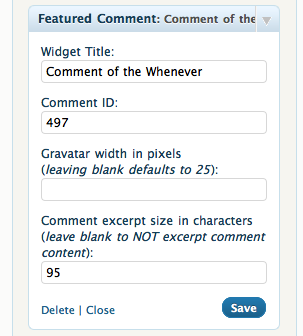
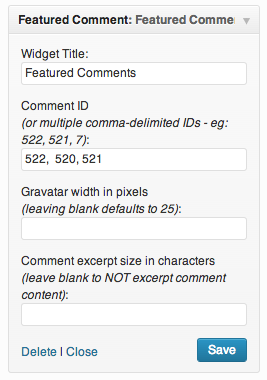
v1.6 before language localization - adds ability to add multiple comma-delimited IDs

diff --git a/featured-comment-widget.php b/featured-comment-widget.php
@@ -2,8 +2,8 @@
 /*
 Plugin Name: Featured Comment Widget
 Plugin URI: http://pancaketheorem.com/featured-comment-widget
-Description: A widget that allows you to showcase any comment that has been published on your site. All you need to do is enter the comment's ID in the widget form.
-Version: 1.5
+Description: A widget that allows you to showcase any comment(s) that has been published on your site. All you need to do is enter the comment's ID (or multiple comma-delimited IDs) in the widget form.
+Version: 1.6
 Author: Jenn Schiffer
 Author URI: http://jennschiffer.com
 
@@ -33,20 +33,23 @@ add_action('init', 'featuredCommentWidget_init', 1);
 
 function featuredCommentCSS() {
 	echo '<style type="text/css">
-			.featuredComment-comment { margin: 3px auto 5px;}
+			.featuredComment-comment { margin: 20px auto; }
+			.featuredComment-comment-content { margin: 3px auto 5px;}
 			.featuredComment-cite { display: block; text-align: left; line-height: 1em;}
 			.featuredComment-cite:after { content: "."; display: block; height: 0; clear: both; visibility: hidden; }
 				.featuredComment-gravatar {float: right; padding: 0px 5px;}
 				.featuredComment-author {float: right;}
+			.featuredComment-pager { }
+			.featuredComment-next { padding: 5px; }
+			.featuredComment-prev { padding: 5px; }
 		  </style>';
 }
-
 add_action('wp_head', 'featuredCommentCSS');
 
 class featuredCommentWidget extends WP_Widget {
 
 	function featuredCommentWidget() {
-		$widget_ops = array('classname' => 'featured_comment_widget', 'description' => __('Enter a comment\'s ID to feature it on your sidebar.','featured-comment-widget'));
+		$widget_ops = array('classname' => 'featured_comment_widget', 'description' => __('Enter a comment\'s ID (or multiple comma-delimited IDs) to feature it on your sidebar.','featured-comment-widget'));
 		$this->WP_Widget('featuredComment', __('Featured Comment'), $widget_ops);
 	}
 
@@ -59,22 +62,35 @@ class featuredCommentWidget extends WP_Widget {
 		
 		echo $before_widget;
 		
-		if ( !empty( $title ) ) { echo $before_title . $title . $after_title; }
-		else { echo $before_title . '' . $after_title; } 
+		// title of widget
+		if ( !empty( $title ) ) { 
+			echo $before_title . $title . $after_title; 
+		}
+		else { 
+			echo $before_title . '' . $after_title; 
+		} 
+		
+		// create array of all comment IDs split by commas
+		$commentIDArray = explode(",",$commentID);
  
-				$featuredComment = get_comment($commentID);
-				
+		// for each item in comment array, display featured comment
+		foreach ( $commentIDArray as $singleCommentID ) {
+		
+			$featuredComment = get_comment(trim($singleCommentID));
+			
+			if ($featuredComment) {
+	
 				if ($featuredComment->comment_author) {
 					$featuredCommentName = $featuredComment->comment_author;
 				}
 				else {
-					$featuredCommentName = "Anonymous";
+					$featuredCommentName = _e('Anonymous','featured-comment-widget');
 				}
 				
 				$featuredCommentEmail = $featuredComment->comment_author_email;
 				$featuredCommentContent = $featuredComment->comment_content;
 				$featuredCommentPostID = $featuredComment->comment_post_ID;
-				$featuredCommentURL = get_permalink($featuredCommentPostID).'#comment-'.$commentID;
+				$featuredCommentURL = get_permalink($featuredCommentPostID).'#comment-'.$singleCommentID;
 				$featuredCommentByline = __('Posted by') . '<br />' . $featuredCommentName;
 				
 				if ( function_exists('mb_strlen') && function_exists('mb_substr') ) {
@@ -86,16 +102,21 @@ class featuredCommentWidget extends WP_Widget {
 					}
 					
 				}
+				
+				echo '<div class="featuredComment-comment">';
+					echo '<div class="featuredComment-comment-content">'. $featuredCommentContent . '</div>';
+		
+					echo '<div class="featuredComment-cite">';
+						echo '<span class="featuredComment-author"><a href="' . $featuredCommentURL . '">' . $featuredCommentByline . '</a></span>';
+						echo '<span class="featuredComment-gravatar"><a href="' . $featuredCommentURL . '">' . get_avatar($featuredCommentEmail, $gravatarSize) . '</a></span>';
+					echo '</div>';
+					
+				echo '</div>'; // end comment block
 			
-				echo '<div class="featuredComment-comment">'. $featuredCommentContent . '</div>';
-			?>
-			
-				<div class="featuredComment-cite">
-					<span class="featuredComment-author"><a href="<?php echo $featuredCommentURL; ?>"><?php echo $featuredCommentByline; ?></a></span>
-					<span class="featuredComment-gravatar"><a href="<?php echo $featuredCommentURL; ?>"><?php echo get_avatar($featuredCommentEmail, $gravatarSize); ?></a></span>
-				</div>
-			
-	<?php
+			}// end if comment exists
+	
+		}// end for each item in comment array
+	
 		echo $after_widget;
 	}
 
@@ -115,16 +136,16 @@ class featuredCommentWidget extends WP_Widget {
 		$gravatarSize = strip_tags($instance['gravatarSize']);
 		$excerptSize = strip_tags($instance['excerptSize']);
 	?>
-		<p><lable for="<?php echo $this->get_field_id('title'); ?>"><?php _e('Widget Title','featured-comment-widget'); ?>:</label>
+		<p><label for="<?php echo $this->get_field_id('title'); ?>"><?php _e('Widget Title','featured-comment-widget'); ?>:</label>
 		<input class="widefat" id="<?php echo $this->get_field_id('title'); ?>" name="<?php echo $this->get_field_name('title'); ?>" type="text" value="<?php echo esc_attr($title); ?>" /></p>
-		<p><label for="<?php echo $this->get_field_id('commentID'); ?>"><?php _e('Comment ID','featured-comment-widget'); ?>:</label>
+		<p><label for="<?php echo $this->get_field_id('commentID'); ?>"><?php _e('Comment ID','featured-comment-widget') ?><br /><em>(<?php _e('or multiple comma-delimited IDs - eg: 522, 521, 7','featured-comment-widget'); ?>)</em>:</label>
 		<input class="widefat" id="<?php echo $this->get_field_id('commentID'); ?>" name="<?php echo $this->get_field_name('commentID'); ?>" type="text" value="<?php echo esc_attr($commentID); ?>" /></p>
-		<p><label for="<?php echo $this->get_field_id('gravatarSize'); ?>"><?php _e('Gravatar width in pixels','featured-comment-widget'); ?><br />(<em><?php _e('leaving blank defaults to 25','featured-comment-widget'); ?></em>):</label>
+		<p><label for="<?php echo $this->get_field_id('gravatarSize'); ?>"><?php _e('Gravatar width in pixels','featured-comment-widget'); ?><br /><em>(<?php _e('leaving blank defaults to 25','featured-comment-widget'); ?>)</em>:</label>
 		<input class="widefat" id="<?php echo $this->get_field_id('gravatarSize'); ?>" name="<?php echo $this->get_field_name('gravatarSize'); ?>" type="text" value="<?php echo esc_attr($gravatarSize); ?>" /></p>
 		
 		<?php if ( function_exists('mb_strlen') && function_exists('mb_substr') ) { ?>
 				
-			<p><label for="<?php echo $this->get_field_id('excerptSize'); ?>"><?php _e('Comment excerpt size in characters','featured-comment-widget'); ?><br />(<em><?php _e('leave blank to NOT excerpt comment content','featured-comment-widget'); ?></em>)</label>
+			<p><label for="<?php echo $this->get_field_id('excerptSize'); ?>"><?php _e('Comment excerpt size in characters','featured-comment-widget'); ?><br /><em>(<?php _e('leave blank to NOT excerpt comment content','featured-comment-widget'); ?>)</em>:</label>
 			<input class="widefat" id="<?php echo $this->get_field_id('excerptSize'); ?>" name="<?php echo $this->get_field_name('excerptSize'); ?>" type="text" value="<?php echo esc_attr($excerptSize); ?>" /></p>
 		
 		<?php }
